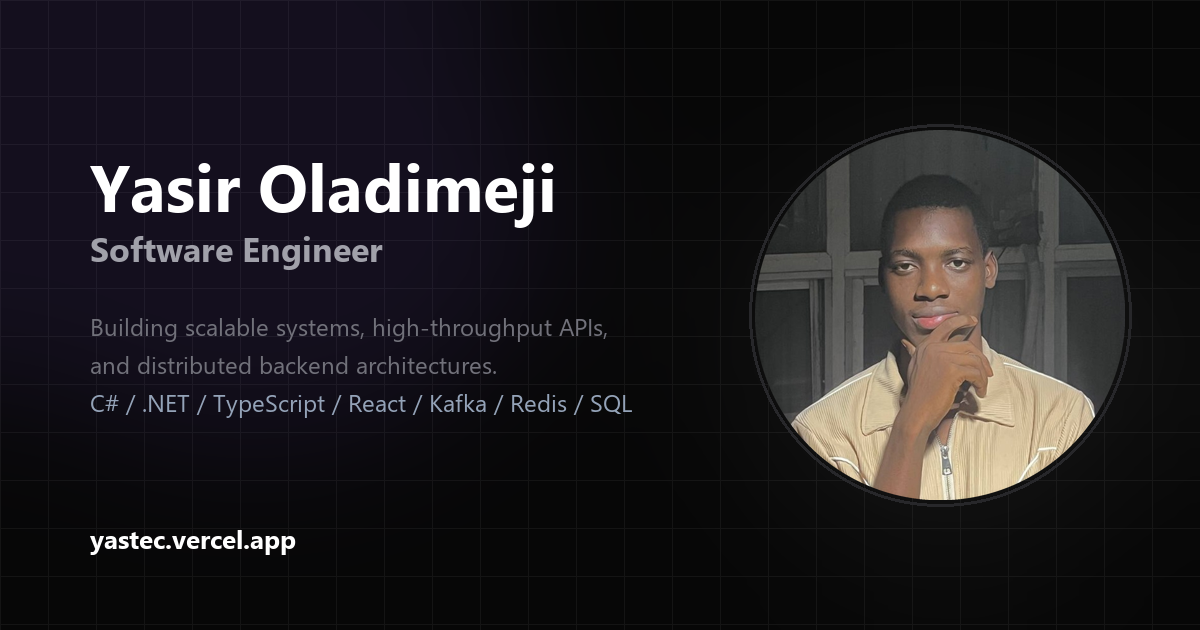
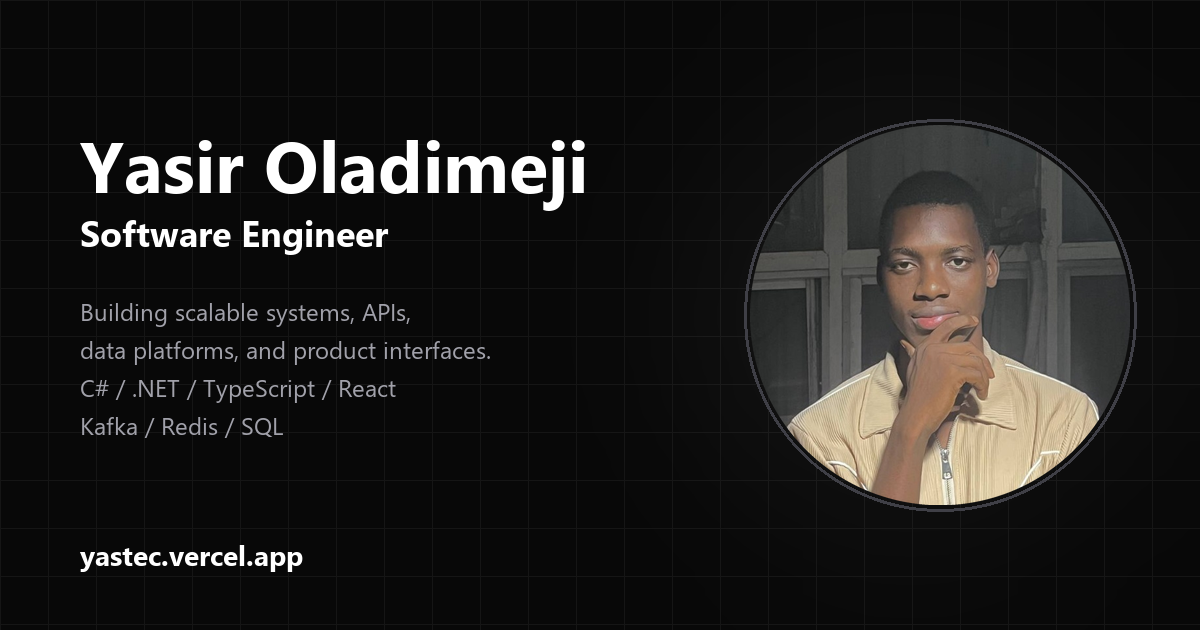
feat: match reference OG preview card and polish mobile responsiveness

diff --git a/index.css b/index.css
@@ -55,6 +55,48 @@ body {
   line-height: 1.6;
 }
 
+/* Responsive Helper Utilities */
+.hidden {
+  display: none !important;
+}
+
+@media (min-width: 640px) {
+  .sm\:inline {
+    display: inline !important;
+  }
+  .sm\:flex {
+    display: flex !important;
+  }
+  .sm\:block {
+    display: block !important;
+  }
+}
+
+.font-mono {
+  font-family: ui-monospace, SFMono-Regular, Menlo, Monaco, Consolas, monospace;
+}
+.text-xs {
+  font-size: 0.75rem;
+}
+.text-sm {
+  font-size: 0.875rem;
+}
+.font-bold {
+  font-weight: 700;
+}
+.tracking-tight {
+  letter-spacing: -0.025em;
+}
+.opacity-40 {
+  opacity: 0.4;
+}
+.opacity-60 {
+  opacity: 0.6;
+}
+.opacity-70 {
+  opacity: 0.7;
+}
+
 /* Site Shell */
 .site-shell {
   min-height: 100vh;
@@ -112,6 +154,37 @@ body {
   gap: 1rem;
   padding: 1.25rem 1.5rem;
   animation: 0.7s cubic-bezier(0.16, 1, 0.3, 1) both navDrop;
+}
+
+@media (max-width: 640px) {
+  .site-header {
+    display: flex;
+    justify-content: center;
+    padding: 0.75rem 1rem;
+  }
+
+  .header-side {
+    display: none !important;
+  }
+
+  .floating-nav {
+    max-width: calc(100vw - 1.5rem);
+    padding: 0.2rem 0.3rem;
+    gap: 0.15rem;
+    overflow-x: auto;
+    -webkit-overflow-scrolling: touch;
+    scrollbar-width: none;
+  }
+
+  .floating-nav::-webkit-scrollbar {
+    display: none;
+  }
+
+  .nav-button {
+    padding: 0 0.55rem;
+    min-height: 2.15rem;
+    font-size: 0.82rem;
+  }
 }
 
 .header-side {
@@ -279,17 +352,35 @@ body {
 
 @media (max-width: 640px) {
   .home-copy p:first-of-type {
-    min-height: 7.2rem;
-    padding-right: 7.5rem;
+    min-height: 6.8rem;
+    padding-right: 6.85rem;
   }
 
   .portrait {
-    width: 6.85rem;
-    height: 6.85rem;
+    width: 6rem;
+    height: 6rem;
     margin: 0;
     position: absolute;
-    top: 5.25rem;
+    top: 4.25rem;
     right: 1.25rem;
+  }
+}
+
+@media (max-width: 380px) {
+  .home-copy h1 {
+    font-size: 1.6rem;
+  }
+
+  .home-copy p:first-of-type {
+    min-height: 5.6rem;
+    padding-right: 5.4rem;
+  }
+
+  .portrait {
+    width: 4.85rem;
+    height: 4.85rem;
+    top: 3.65rem;
+    right: 1rem;
   }
 }
 
@@ -344,6 +435,23 @@ body {
   align-items: baseline;
   gap: 1.5rem;
   margin-bottom: 0.35rem;
+}
+
+@media (max-width: 640px) {
+  .role-title-row {
+    flex-direction: column;
+    align-items: flex-start;
+    gap: 0.2rem;
+  }
+
+  .role-title-row h2 {
+    font-size: 1.05rem;
+    line-height: 1.35;
+  }
+
+  .role-title-row span {
+    font-size: 0.8rem;
+  }
 }
 
 .role-title-row h2 {
@@ -425,6 +533,21 @@ body {
   justify-content: space-between;
   gap: 1rem;
   margin-bottom: 0.45rem;
+}
+
+.work-award-row {
+  display: flex;
+  align-items: baseline;
+  justify-content: space-between;
+  gap: 0.75rem;
+  flex-wrap: wrap;
+}
+
+.work-award-badge {
+  font-family: ui-monospace, SFMono-Regular, Menlo, Monaco, Consolas, monospace;
+  font-size: 0.78rem;
+  color: var(--faint);
+  white-space: nowrap;
 }
 
 .compact-work-item span {

diff --git a/index.html b/index.html
@@ -11,7 +11,7 @@
 
     <!-- SEO Meta Tags -->
     <title>Yasir Oladimeji | Software Engineer</title>
-    <meta name="description" content="Yasir Oladimeji || Software Engineer" />
+    <meta name="description" content="Yasir Oladimeji is a Software Engineer in Lagos building scalable systems, APIs, data platforms, and product-facing interfaces with C#/.NET, TypeScript, React, Kafka, Redis, and SQL." />
     <meta name="keywords" content="Yasir Oladimeji, Software Engineer, Full Stack Engineer, Backend Engineer, ASP.NET Core, C#, TypeScript, React, Kafka, Redis, SQL Server, PostgreSQL, Microservices, Lagos" />
     <meta name="author" content="Yasir Oladimeji" />
     <meta name="robots" content="index, follow" />
@@ -21,7 +21,7 @@
     <meta property="og:url" content="https://yastec.vercel.app/" />
     <meta property="og:site_name" content="Yasir Oladimeji" />
     <meta property="og:title" content="Yasir Oladimeji | Software Engineer" />
-    <meta property="og:description" content="Yasir Oladimeji || Software Engineer" />
+    <meta property="og:description" content="Yasir Oladimeji is a Software Engineer in Lagos building scalable systems, APIs, data platforms, and product-facing interfaces with C#/.NET, TypeScript, React, Kafka, Redis, and SQL." />
     <meta property="og:image" content="https://yastec.vercel.app/og-image.png" />
     <meta property="og:image:secure_url" content="https://yastec.vercel.app/og-image.png" />
     <meta property="og:image:type" content="image/png" />
@@ -33,7 +33,7 @@
     <meta name="twitter:card" content="summary_large_image" />
     <meta name="twitter:url" content="https://yastec.vercel.app/" />
     <meta name="twitter:title" content="Yasir Oladimeji | Software Engineer" />
-    <meta name="twitter:description" content="Yasir Oladimeji || Software Engineer" />
+    <meta name="twitter:description" content="Yasir Oladimeji is a Software Engineer in Lagos building scalable systems, APIs, data platforms, and product-facing interfaces with C#/.NET, TypeScript, React, Kafka, Redis, and SQL." />
     <meta name="twitter:image" content="https://yastec.vercel.app/og-image.png" />
     <meta name="twitter:image:alt" content="Yasir Oladimeji - Software Engineer" />
 

diff --git a/components/Projects.tsx b/components/Projects.tsx
@@ -89,10 +89,10 @@ const Projects: React.FC = () => {
               target="_blank"
               rel="noreferrer"
             >
-              <div className="flex items-baseline justify-between gap-4">
+              <div className="work-award-row">
                 <span>{item.title}</span>
                 {item.award && (
-                  <span className="text-xs font-mono text-faint shrink-0">
+                  <span className="work-award-badge">
                     {item.award}
                   </span>
                 )}

diff --git a/components/Navbar.tsx b/components/Navbar.tsx
@@ -84,7 +84,7 @@ const Navbar: React.FC<NavbarProps> = ({ theme, toggleTheme }) => {
             title="Open Resume"
           >
             <FileText size={15} />
-            <span>Resume</span>
+            <span className="hidden sm:inline">Resume</span>
           </a>
         </div>
 
